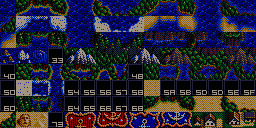
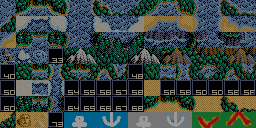
sea map OK

diff --git a/data/tiled/sdgsag.tsx b/data/tiled/sdgsag.tsx
@@ -1,52 +1,4 @@
 <?xml version="1.0" encoding="UTF-8"?>
-<tileset version="1.10" tiledversion="1.11.0" name="sdgsag" tilewidth="32" tileheight="32" tilecount="16" columns="0">
- <grid orientation="orthogonal" width="1" height="1"/>
- <tile id="6">
-  <image source="C:/Users/陈林/Downloads/sprites_for_ship_at_sea/up_1_1.png" width="32" height="32"/>
- </tile>
- <tile id="7">
-  <image source="C:/Users/陈林/Downloads/sprites_for_ship_at_sea/up_2_2.png" width="32" height="32"/>
- </tile>
- <tile id="10">
-  <image source="C:/Users/陈林/Downloads/sprites_for_ship_at_sea/down_2_2.png" width="32" height="32"/>
- </tile>
- <tile id="11">
-  <image source="C:/Users/陈林/Downloads/sprites_for_ship_at_sea/down_1_1.png" width="32" height="32"/>
- </tile>
- <tile id="12">
-  <image source="C:/Users/陈林/Downloads/sprites_for_ship_at_sea/right_1.png" width="32" height="32"/>
- </tile>
- <tile id="13">
-  <image source="C:/Users/陈林/Downloads/sprites_for_ship_at_sea/right_2.png" width="32" height="32"/>
- </tile>
- <tile id="14">
-  <image source="C:/Users/陈林/Downloads/sprites_for_ship_at_sea/left_1.png" width="32" height="32"/>
- </tile>
- <tile id="15">
-  <image source="C:/Users/陈林/Downloads/sprites_for_ship_at_sea/left_2.png" width="32" height="32"/>
- </tile>
- <tile id="16">
-  <image source="C:/Users/陈林/Downloads/sprites_for_ship_at_sea/down_left_1.png" width="32" height="32"/>
- </tile>
- <tile id="17">
-  <image source="C:/Users/陈林/Downloads/sprites_for_ship_at_sea/down_left_2.png" width="32" height="32"/>
- </tile>
- <tile id="18">
-  <image source="C:/Users/陈林/Downloads/sprites_for_ship_at_sea/up_right_1.png" width="32" height="32"/>
- </tile>
- <tile id="19">
-  <image source="C:/Users/陈林/Downloads/sprites_for_ship_at_sea/up_right_2.png" width="32" height="32"/>
- </tile>
- <tile id="20">
-  <image source="C:/Users/陈林/Downloads/sprites_for_ship_at_sea/down_right_1.png" width="32" height="32"/>
- </tile>
- <tile id="21">
-  <image source="C:/Users/陈林/Downloads/sprites_for_ship_at_sea/down_right_2.png" width="32" height="32"/>
- </tile>
- <tile id="22">
-  <image source="C:/Users/陈林/Downloads/sprites_for_ship_at_sea/up_left_1.png" width="32" height="32"/>
- </tile>
- <tile id="23">
-  <image source="C:/Users/陈林/Downloads/sprites_for_ship_at_sea/up_left_2.png" width="32" height="32"/>
- </tile>
+<tileset version="1.10" tiledversion="1.11.0" name="SDGSAG" tilewidth="16" tileheight="16" tilecount="4" columns="2">
+ <image source="C:/Users/陈林/Downloads/port - 副本.png" width="32" height="32"/>
 </tileset>

diff --git a/data/tiled/sadgasdg.tsx b/data/tiled/sadgasdg.tsx
@@ -1,4 +1,4 @@
 <?xml version="1.0" encoding="UTF-8"?>
-<tileset version="1.10" tiledversion="1.11.0" name="sadgasdg" tilewidth="49" tileheight="49" tilecount="128" columns="16">
- <image source="C:/Users/陈林/Downloads/discoveries_and_items.png" width="785" height="393"/>
+<tileset version="1.10" tiledversion="1.11.0" name="sadgasdg" tilewidth="16" tileheight="16" tilecount="4" columns="2">
+ <image source="C:/Users/陈林/Downloads/port - 副本 (2).png" width="32" height="32"/>
 </tileset>

diff --git a/data/tiled/1414124.tsx b/data/tiled/1414124.tsx
@@ -1,0 +1,4 @@
+<?xml version="1.0" encoding="UTF-8"?>
+<tileset version="1.10" tiledversion="1.11.0" name="1414124" tilewidth="16" tileheight="16" tilecount="4" columns="2">
+ <image source="C:/Users/陈林/Downloads/port.png" width="32" height="32"/>
+</tileset>

diff --git a/data/tiled/1224124124.tsx b/data/tiled/1224124124.tsx
@@ -1,0 +1,4 @@
+<?xml version="1.0" encoding="UTF-8"?>
+<tileset version="1.10" tiledversion="1.11.0" name="1224124124" tilewidth="16" tileheight="16" tilecount="128" columns="16">
+ <image source="../imgs/world_map/day.png" width="256" height="128"/>
+</tileset>

diff --git a/data/tiled/ASDGASDG.tsx b/data/tiled/ASDGASDG.tsx
@@ -1,0 +1,4 @@
+<?xml version="1.0" encoding="UTF-8"?>
+<tileset version="1.10" tiledversion="1.11.0" name="ASDGASDG" tilewidth="16" tileheight="16" tilecount="128" columns="16">
+ <image source="../imgs/world_map/day.png" width="256" height="128"/>
+</tileset>

diff --git a/src/tests/modify_pixel_color.py b/src/tests/modify_pixel_color.py
@@ -1,0 +1,25 @@
+import cv2
+import numpy as np
+
+def modify_pixel_color(image_path, target_color, new_color, output_path):
+    image = cv2.imread(image_path)
+    height, width, _ = image.shape
+
+    # Convert target and new colors to numpy arrays
+    target_color = np.array(target_color)
+    new_color = np.array(new_color)
+
+    for y in range(height):
+        for x in range(width):
+            if np.array_equal(image[y, x], target_color):
+                image[y, x] = new_color
+
+    cv2.imwrite(output_path, image)
+
+# Example usage
+image_path = r'D:\data\code\python\project_mount_christ\data\imgs\world_map\day.png'
+target_color = [97, 178, 0]  # Red color
+new_color = [29, 230, 181]     # Green color
+output_path = r'D:\data\code\python\project_mount_christ\data\imgs\world_map\day_modified.png'
+
+modify_pixel_color(image_path, target_color, new_color, output_path)

diff --git a/src/tests/make_image_dimmer.py b/src/tests/make_image_dimmer.py
@@ -1,0 +1,22 @@
+import cv2
+import numpy as np
+
+
+def make_image_dimmer(image_path, output_path, dim_factor=0.5):
+    # Read the image
+    image = cv2.imread(image_path)
+
+    # Ensure the dim factor is between 0 and 1
+    dim_factor = np.clip(dim_factor, 0, 1)
+
+    # Apply the dim factor to the image
+    dimmed_image = (image * dim_factor).astype(np.uint8)
+
+    # Save the dimmed image
+    cv2.imwrite(output_path, dimmed_image)
+
+
+# Example usage
+image_path = r'D:\data\code\python\project_mount_christ\data\imgs\world_map\day.png'
+output_path = r'D:\data\code\python\project_mount_christ\data\imgs\world_map\day_dimmed.png'
+make_image_dimmer(image_path, output_path, dim_factor=0.4)

diff --git a/src/shared/map_maker.py b/src/shared/map_maker.py
@@ -316,7 +316,7 @@ class MapMaker():
                 self.time_of_day_index = 0
 
             # for testing
-            self.time_of_day_index = 0
+            # self.time_of_day_index = 1
 
             print(f'{self.time_of_day=}')
             partial_world_map_img = self.partial_world_maps[self.time_of_day.value]
